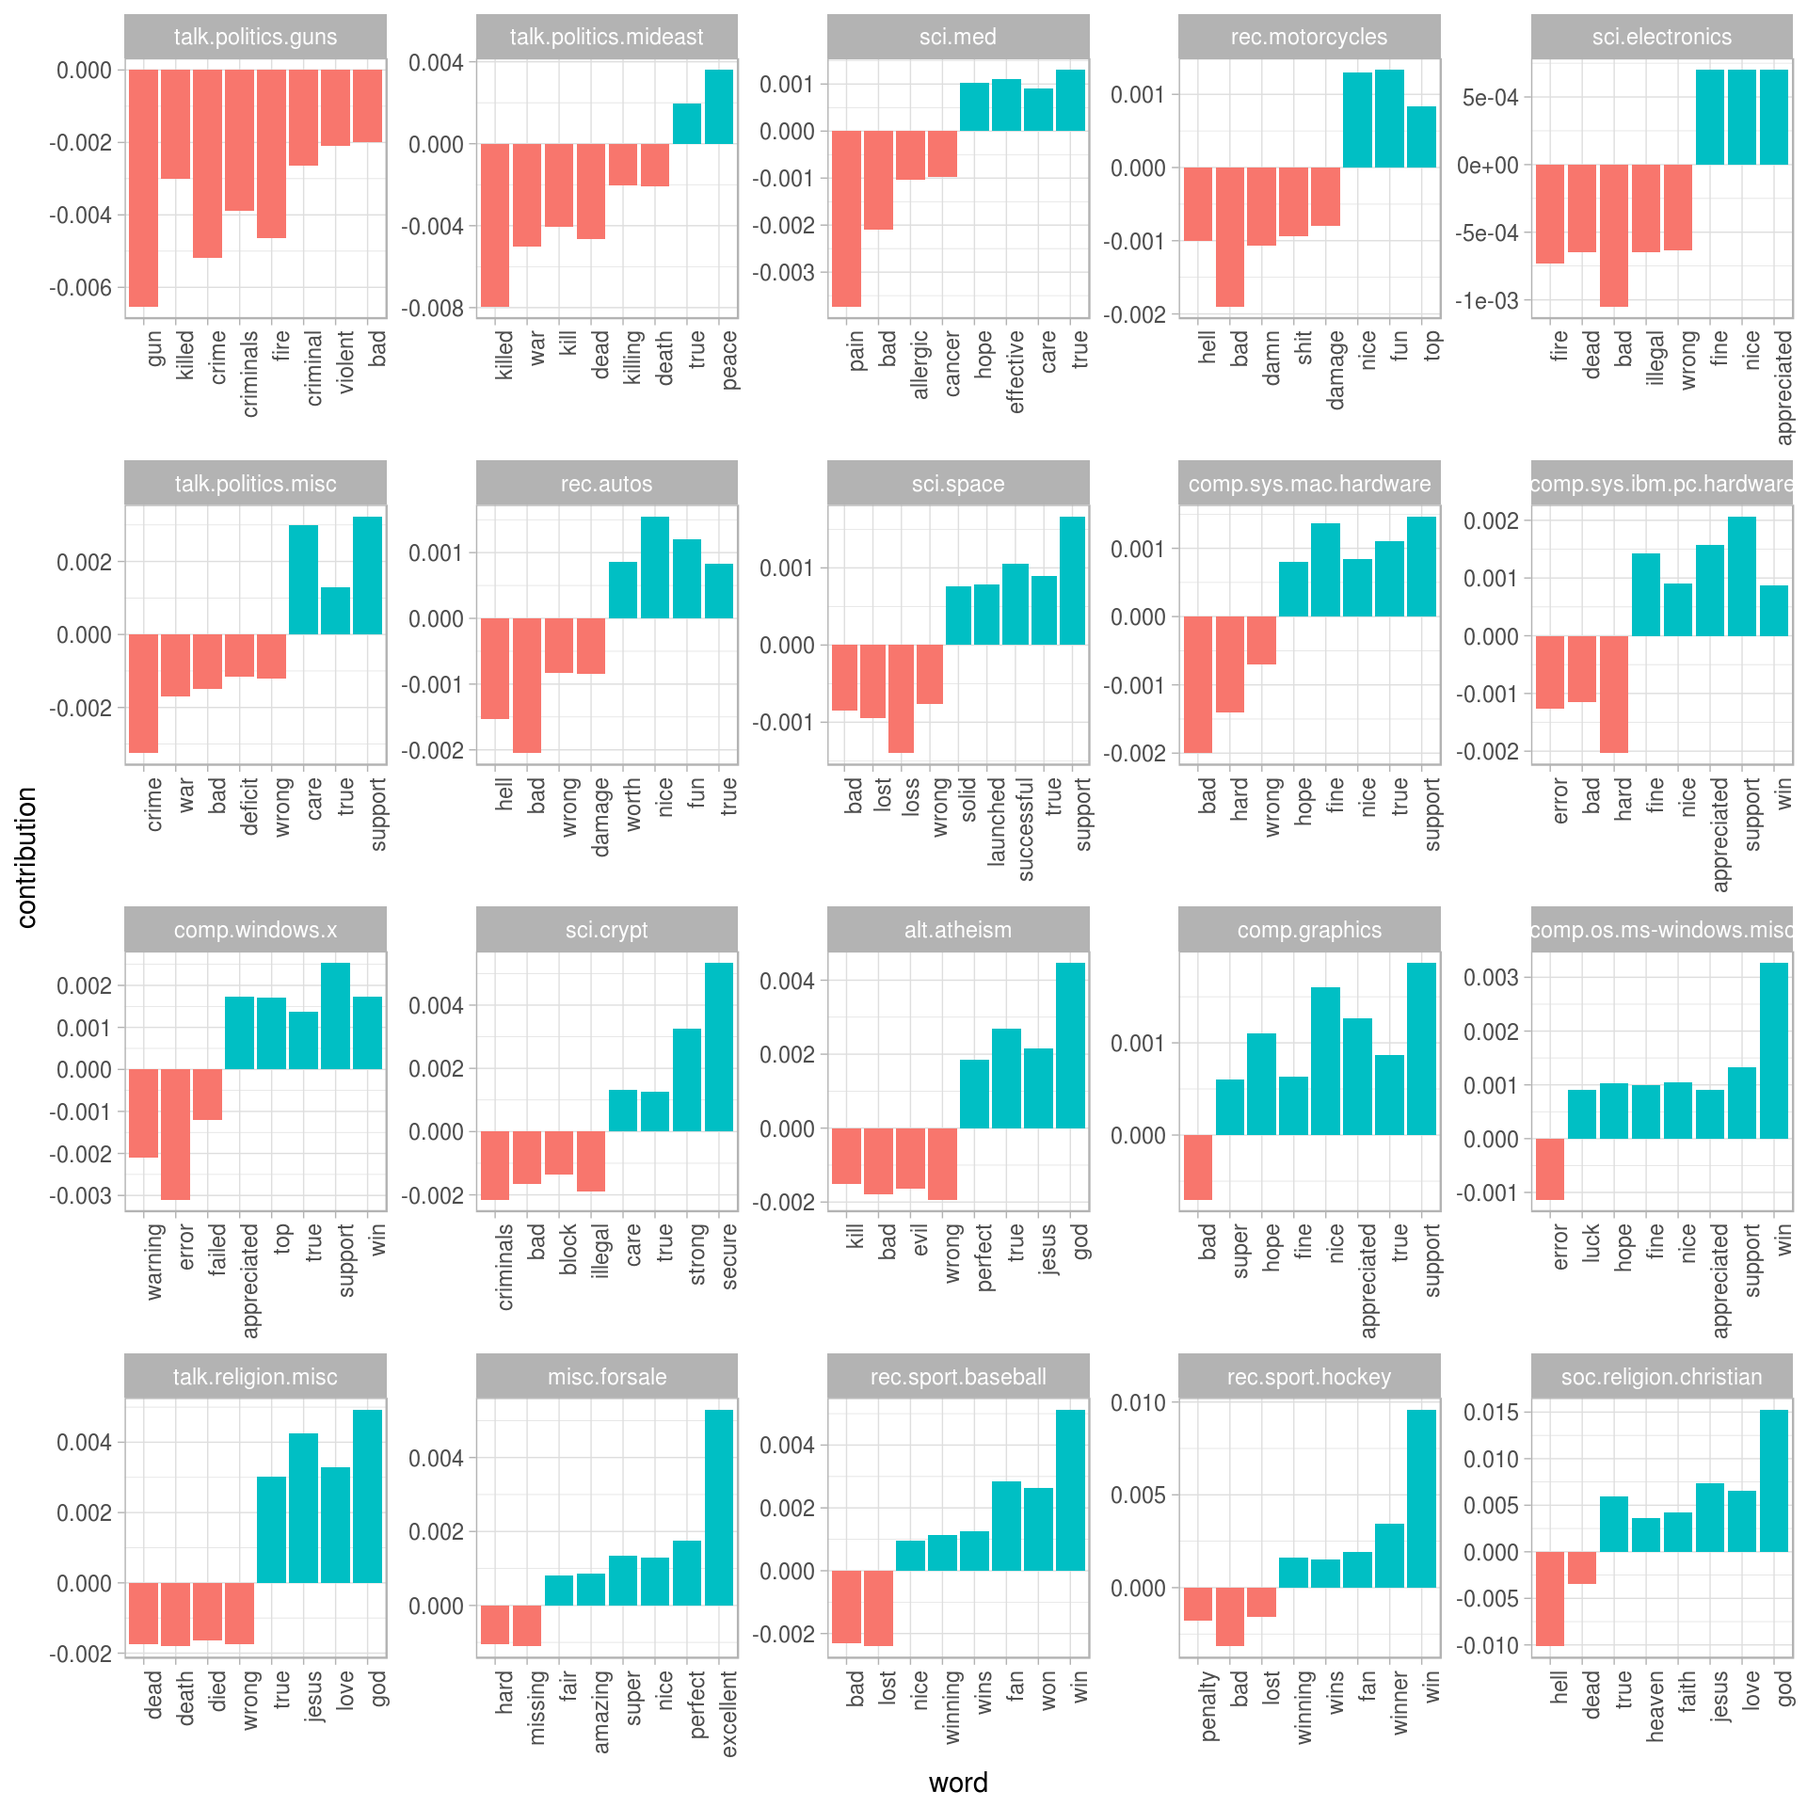
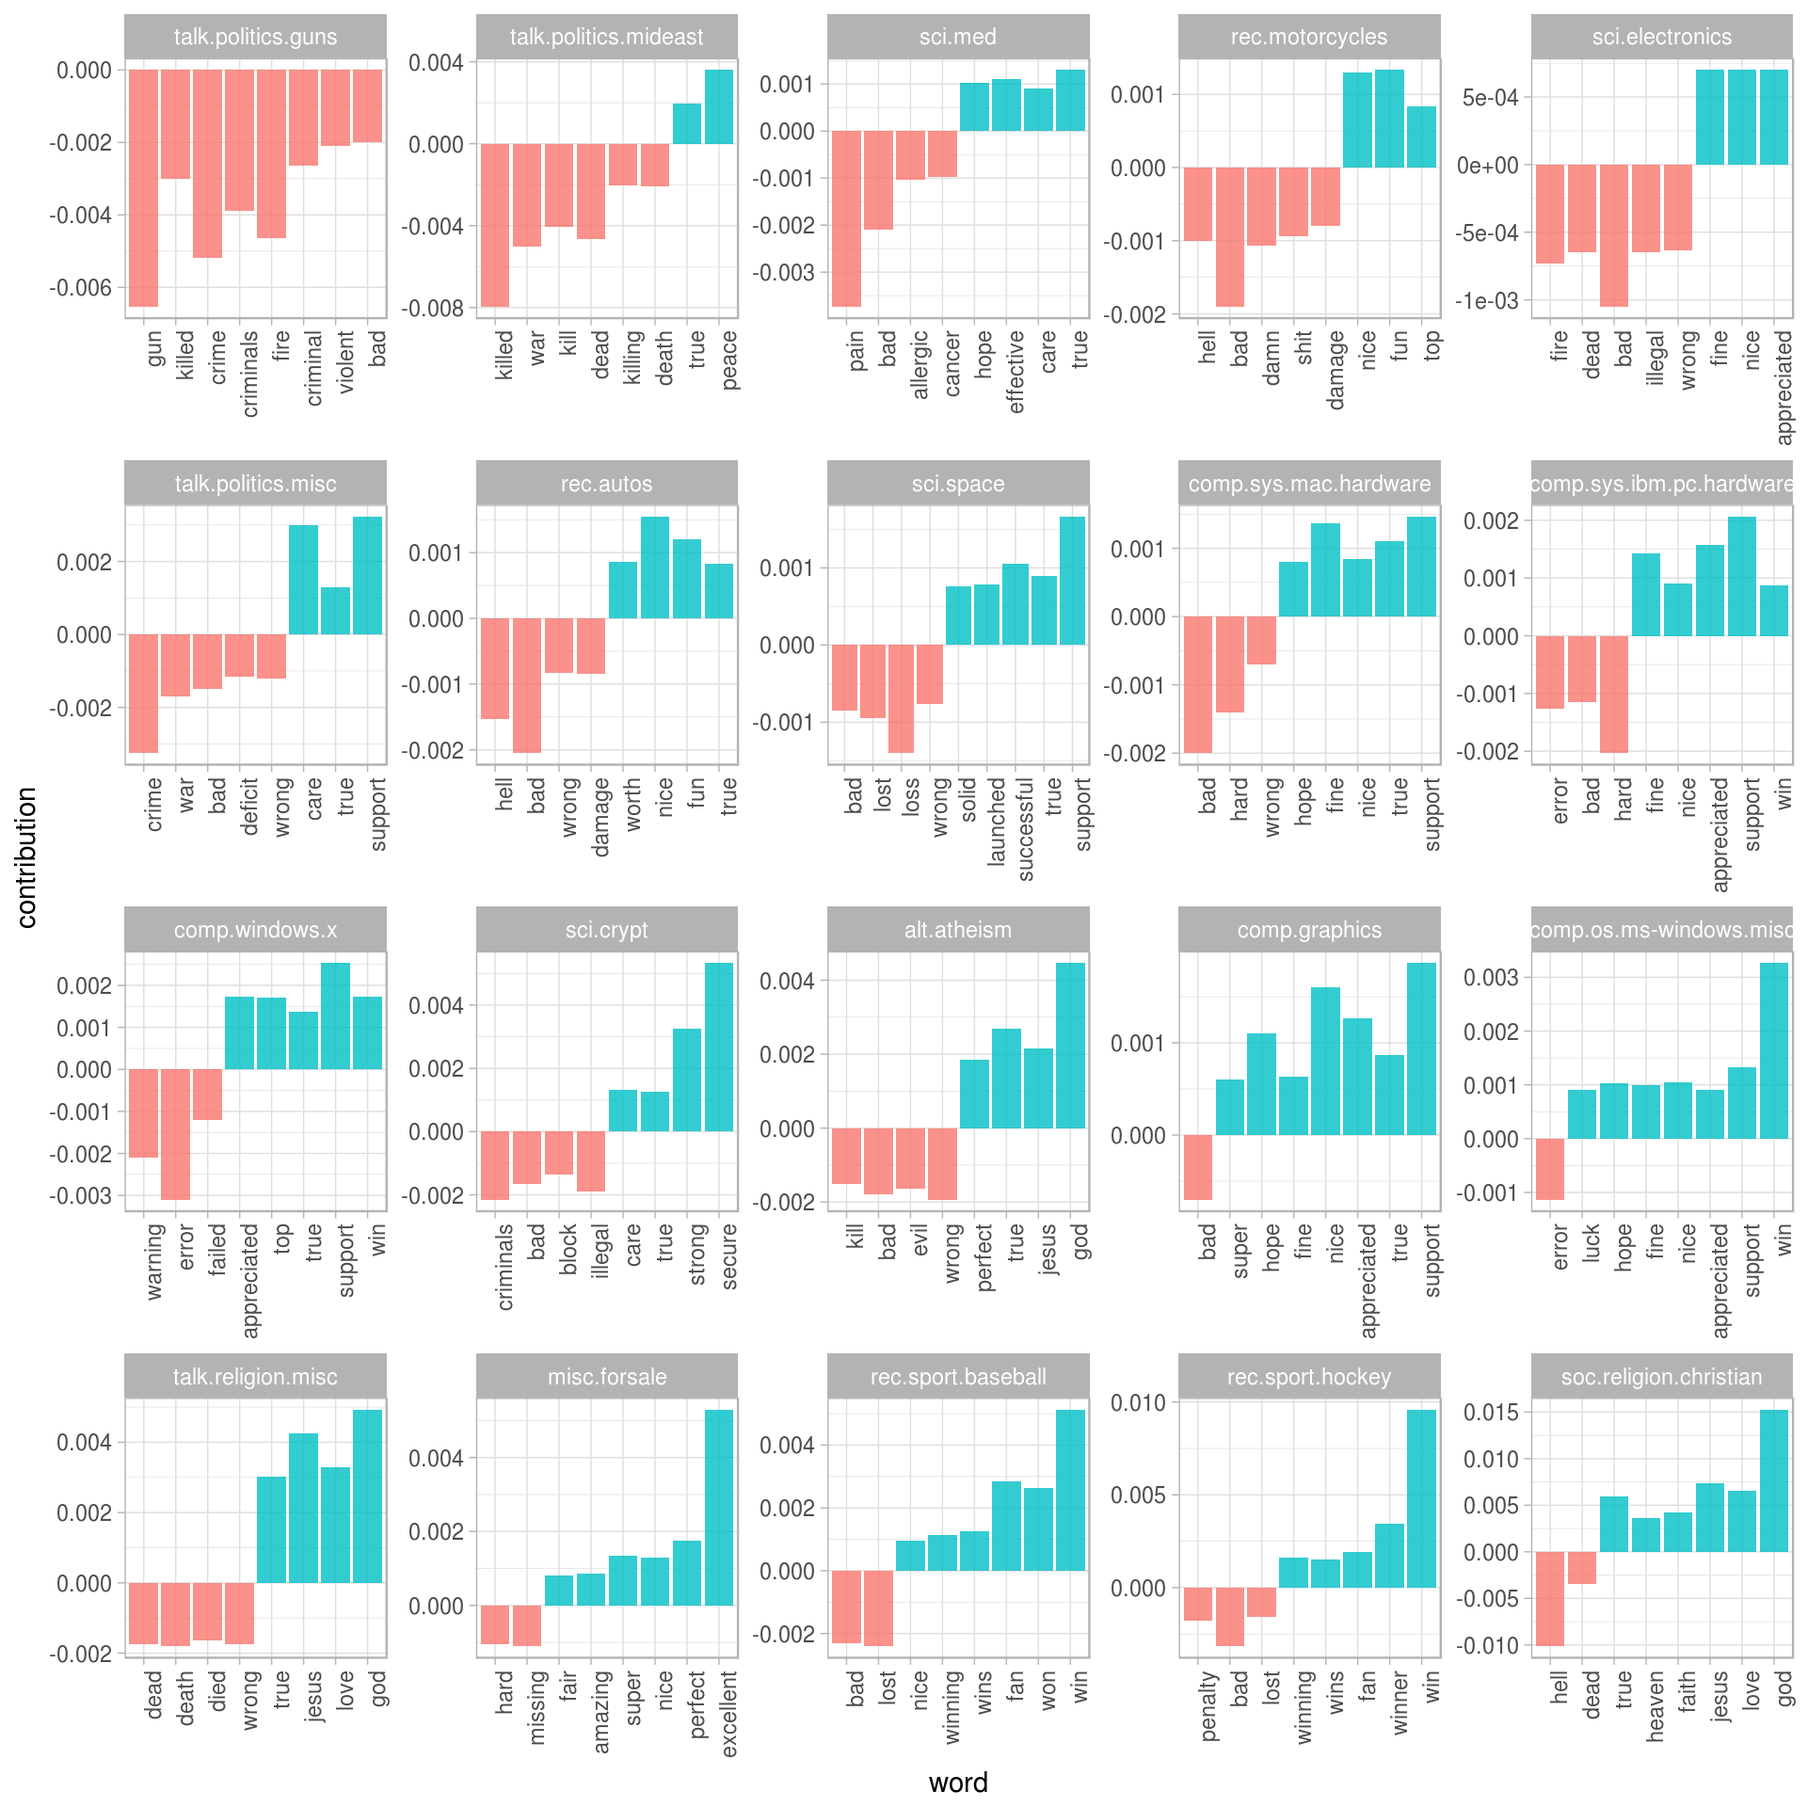
Updating book (109)

diff --git a/usenet.html b/usenet.html
@@ -400,7 +400,7 @@ top_sentiment_words %&gt;%
 <span class="st">  </span><span class="kw">mutate</span>(<span class="dt">board =</span> <span class="kw">reorder</span>(board, contribution),
          <span class="dt">word =</span> <span class="kw">reorder</span>(word, contribution)) %&gt;%
 <span class="st">  </span><span class="kw">ggplot</span>(<span class="kw">aes</span>(word, contribution, <span class="dt">fill =</span> contribution &gt;<span class="st"> </span><span class="dv">0</span>)) +
-<span class="st">  </span><span class="kw">geom_bar</span>(<span class="dt">alph =</span> <span class="fl">0.8</span>, <span class="dt">stat =</span> <span class="st">&quot;identity&quot;</span>, <span class="dt">show.legend =</span> <span class="ot">FALSE</span>) +
+<span class="st">  </span><span class="kw">geom_bar</span>(<span class="dt">alpha =</span> <span class="fl">0.8</span>, <span class="dt">stat =</span> <span class="st">&quot;identity&quot;</span>, <span class="dt">show.legend =</span> <span class="ot">FALSE</span>) +
 <span class="st">  </span><span class="kw">facet_wrap</span>(~<span class="st"> </span>board, <span class="dt">scales =</span> <span class="st">&quot;free&quot;</span>) +
 <span class="st">  </span><span class="kw">theme</span>(<span class="dt">axis.text.x =</span> <span class="kw">element_text</span>(<span class="dt">angle =</span> <span class="dv">90</span>, <span class="dt">hjust =</span> <span class="dv">1</span>))</code></pre></div>
 <p><img src="10-usenet_files/figure-html/top_sentiment_words-1.png" width="960" /></p>
@@ -508,15 +508,72 @@ top_sentiment_words %&gt;%
 </div>
 <div id="n-grams" class="section level2">
 <h2><span class="header-section-number">10.6</span> N-grams</h2>
-<p>We can also</p>
+<p>We can also examine the effect of words that are used in negation, like we did in [Chapter 5]{#ngrams}. Let’s start by finding all the bigrams in the Usenet posts.</p>
 <div class="sourceCode"><pre class="sourceCode r"><code class="sourceCode r">usenet_bigrams &lt;-<span class="st"> </span>cleaned_text %&gt;%
-<span class="st">  </span><span class="kw">unnest_tokens</span>(bigram, text, <span class="dt">token =</span> <span class="st">&quot;ngrams&quot;</span>, <span class="dt">n =</span> <span class="dv">2</span>)</code></pre></div>
+<span class="st">  </span><span class="kw">unnest_tokens</span>(bigram, text, <span class="dt">token =</span> <span class="st">&quot;ngrams&quot;</span>, <span class="dt">n =</span> <span class="dv">2</span>)
+
+usenet_bigrams</code></pre></div>
+<pre><code>## # A tibble: 1,762,089 × 3
+##          board    id            bigram
+##          &lt;chr&gt; &lt;chr&gt;             &lt;chr&gt;
+## 1  alt.atheism 49960      archive name
+## 2  alt.atheism 49960      name atheism
+## 3  alt.atheism 49960 atheism resources
+## 4  alt.atheism 49960     resources alt
+## 5  alt.atheism 49960       alt atheism
+## 6  alt.atheism 49960   atheism archive
+## 7  alt.atheism 49960      archive name
+## 8  alt.atheism 49960    name resources
+## 9  alt.atheism 49960    resources last
+## 10 alt.atheism 49960     last modified
+## # ... with 1,762,079 more rows</code></pre>
+<p>Now let’s count how many of these bigrams are used in each board.</p>
 <div class="sourceCode"><pre class="sourceCode r"><code class="sourceCode r">usenet_bigram_counts &lt;-<span class="st"> </span>usenet_bigrams %&gt;%
-<span class="st">  </span><span class="kw">count</span>(board, bigram)</code></pre></div>
+<span class="st">  </span><span class="kw">count</span>(board, bigram)
+
+usenet_bigram_counts %&gt;%<span class="st"> </span>
+<span class="st">  </span><span class="kw">arrange</span>(<span class="kw">desc</span>(n))</code></pre></div>
+<pre><code>## Source: local data frame [1,006,415 x 3]
+## Groups: board [20]
+## 
+##                     board bigram     n
+##                     &lt;chr&gt;  &lt;chr&gt; &lt;int&gt;
+## 1  soc.religion.christian of the  1141
+## 2   talk.politics.mideast of the  1135
+## 3   talk.politics.mideast in the   857
+## 4               sci.space of the   684
+## 5               sci.crypt of the   671
+## 6      talk.politics.misc of the   645
+## 7  soc.religion.christian in the   637
+## 8      talk.religion.misc of the   630
+## 9      talk.politics.guns of the   618
+## 10            alt.atheism of the   474
+## # ... with 1,006,405 more rows</code></pre>
+<p>Next, we can calculate tf-idf for the bigrams to find the ones that are important for each board.</p>
 <div class="sourceCode"><pre class="sourceCode r"><code class="sourceCode r">bigram_tf_idf &lt;-<span class="st"> </span>usenet_bigram_counts %&gt;%
-<span class="st">  </span><span class="kw">bind_tf_idf</span>(bigram, board, n)</code></pre></div>
+<span class="st">  </span><span class="kw">bind_tf_idf</span>(bigram, board, n)
+
+bigram_tf_idf %&gt;%
+<span class="st">  </span><span class="kw">arrange</span>(<span class="kw">desc</span>(tf_idf))</code></pre></div>
+<pre><code>## Source: local data frame [1,006,415 x 6]
+## Groups: board [20]
+## 
+##                       board            bigram     n          tf      idf      tf_idf
+##                       &lt;chr&gt;             &lt;chr&gt; &lt;int&gt;       &lt;dbl&gt;    &lt;dbl&gt;       &lt;dbl&gt;
+## 1        talk.politics.misc mr stephanopoulos   155 0.001477344 2.995732 0.004425728
+## 2            comp.windows.x               n x   177 0.001917577 2.302585 0.004415384
+## 3            comp.windows.x          x printf   130 0.001408390 2.995732 0.004219158
+## 4           rec.motorcycles          the bike   104 0.001675663 2.302585 0.003858356
+## 5  comp.sys.ibm.pc.hardware            scsi 2   107 0.001478983 2.302585 0.003405485
+## 6            comp.windows.x            file x   104 0.001126712 2.995732 0.003375327
+## 7     talk.politics.mideast     the armenians   169 0.001111988 2.995732 0.003331220
+## 8          rec.sport.hockey               1 0   256 0.002733816 1.203973 0.003291440
+## 9            comp.windows.x      output oname   100 0.001083377 2.995732 0.003245506
+## 10           comp.windows.x            x char    98 0.001061709 2.995732 0.003180596
+## # ... with 1,006,405 more rows</code></pre>
+<p>Now we come back to the words used in negation that we are interested in examining. Let’s define a vector of words that we suspect are used in negation, and use the same joining and counting approach from [Chapter 5]{#ngrams} to examine all of them at once.</p>
 <div class="sourceCode"><pre class="sourceCode r"><code class="sourceCode r">negate_words &lt;-<span class="st"> </span><span class="kw">c</span>(<span class="st">&quot;not&quot;</span>, <span class="st">&quot;without&quot;</span>, <span class="st">&quot;no&quot;</span>, <span class="st">&quot;isn&#39;t&quot;</span>, <span class="st">&quot;can&#39;t&quot;</span>, <span class="st">&quot;don&#39;t&quot;</span>,
-                  <span class="st">&quot;won&#39;t&quot;</span>, <span class="st">&quot;couldn&#39;t&quot;</span>)
+                  <span class="st">&quot;won&#39;t&quot;</span>, <span class="st">&quot;couldn&#39;t&quot;</span>, <span class="st">&quot;never&quot;</span>)
 
 usenet_bigram_counts %&gt;%
 <span class="st">  </span><span class="kw">ungroup</span>() %&gt;%
@@ -529,11 +586,13 @@ usenet_bigram_counts %&gt;%
 <span class="st">  </span><span class="kw">ungroup</span>() %&gt;%
 <span class="st">  </span><span class="kw">mutate</span>(<span class="dt">word2 =</span> <span class="kw">reorder</span>(word2, contribution)) %&gt;%
 <span class="st">  </span><span class="kw">ggplot</span>(<span class="kw">aes</span>(word2, contribution, <span class="dt">fill =</span> contribution &gt;<span class="st"> </span><span class="dv">0</span>)) +
-<span class="st">  </span><span class="kw">geom_bar</span>(<span class="dt">stat =</span> <span class="st">&quot;identity&quot;</span>, <span class="dt">show.legend =</span> <span class="ot">FALSE</span>) +
-<span class="st">  </span><span class="kw">facet_wrap</span>(~<span class="st"> </span>word1, <span class="dt">scales =</span> <span class="st">&quot;free&quot;</span>, <span class="dt">nrow =</span> <span class="dv">2</span>) +
+<span class="st">  </span><span class="kw">geom_bar</span>(<span class="dt">alpha =</span> <span class="fl">0.8</span>, <span class="dt">stat =</span> <span class="st">&quot;identity&quot;</span>, <span class="dt">show.legend =</span> <span class="ot">FALSE</span>) +
+<span class="st">  </span><span class="kw">facet_wrap</span>(~<span class="st"> </span>word1, <span class="dt">scales =</span> <span class="st">&quot;free&quot;</span>, <span class="dt">nrow =</span> <span class="dv">3</span>) +
+<span class="st">  </span><span class="kw">ylab</span>(<span class="st">&quot;Words preceded by negation&quot;</span>) +
+<span class="st">  </span><span class="kw">xlab</span>(<span class="st">&quot;Sentiment score * # of occurrences&quot;</span>) +
 <span class="st">  </span><span class="kw">theme</span>(<span class="dt">axis.text.x =</span> <span class="kw">element_text</span>(<span class="dt">angle =</span> <span class="dv">90</span>, <span class="dt">hjust =</span> <span class="dv">1</span>))</code></pre></div>
-<p><img src="10-usenet_files/figure-html/unnamed-chunk-14-1.png" width="672" /></p>
-<p>TODO: Something is wrong with that plot? Shouldn’t each panel have 10 words? Missing a <code>group_by</code>? Is it just because some of the words are in more than in panel?</p>
+<p><img src="10-usenet_files/figure-html/negate_words-1.png" width="960" /></p>
+<p>These words are the ones that contribute the most to the sentiment scores in the wrong direction, because they are being used with negation words before them. Phrases like “no problem” and “don’t want” are important sources of misidentification.</p>
 
 </div>
 </div>

diff --git a/10-usenet.md b/10-usenet.md
@@ -280,7 +280,7 @@ top_sentiment_words %>%
   mutate(board = reorder(board, contribution),
          word = reorder(word, contribution)) %>%
   ggplot(aes(word, contribution, fill = contribution > 0)) +
-  geom_bar(alph = 0.8, stat = "identity", show.legend = FALSE) +
+  geom_bar(alpha = 0.8, stat = "identity", show.legend = FALSE) +
   facet_wrap(~ board, scales = "free") +
   theme(axis.text.x = element_text(angle = 90, hjust = 1))
 ```
@@ -427,30 +427,99 @@ Well then.
 
 ## N-grams
 
-We can also 
+We can also examine the effect of words that are used in negation, like we did in [Chapter 5]{#ngrams}. Let's start by finding all the bigrams in the Usenet posts.
 
 
 ```r
 usenet_bigrams <- cleaned_text %>%
   unnest_tokens(bigram, text, token = "ngrams", n = 2)
+
+usenet_bigrams
 ```
+
+```
+## # A tibble: 1,762,089 × 3
+##          board    id            bigram
+##          <chr> <chr>             <chr>
+## 1  alt.atheism 49960      archive name
+## 2  alt.atheism 49960      name atheism
+## 3  alt.atheism 49960 atheism resources
+## 4  alt.atheism 49960     resources alt
+## 5  alt.atheism 49960       alt atheism
+## 6  alt.atheism 49960   atheism archive
+## 7  alt.atheism 49960      archive name
+## 8  alt.atheism 49960    name resources
+## 9  alt.atheism 49960    resources last
+## 10 alt.atheism 49960     last modified
+## # ... with 1,762,079 more rows
+```
+
+Now let's count how many of these bigrams are used in each board.
 
 
 ```r
 usenet_bigram_counts <- usenet_bigrams %>%
   count(board, bigram)
+
+usenet_bigram_counts %>% 
+  arrange(desc(n))
 ```
+
+```
+## Source: local data frame [1,006,415 x 3]
+## Groups: board [20]
+## 
+##                     board bigram     n
+##                     <chr>  <chr> <int>
+## 1  soc.religion.christian of the  1141
+## 2   talk.politics.mideast of the  1135
+## 3   talk.politics.mideast in the   857
+## 4               sci.space of the   684
+## 5               sci.crypt of the   671
+## 6      talk.politics.misc of the   645
+## 7  soc.religion.christian in the   637
+## 8      talk.religion.misc of the   630
+## 9      talk.politics.guns of the   618
+## 10            alt.atheism of the   474
+## # ... with 1,006,405 more rows
+```
+
+Next, we can calculate tf-idf for the bigrams to find the ones that are important for each board.
 
 
 ```r
 bigram_tf_idf <- usenet_bigram_counts %>%
   bind_tf_idf(bigram, board, n)
+
+bigram_tf_idf %>%
+  arrange(desc(tf_idf))
 ```
+
+```
+## Source: local data frame [1,006,415 x 6]
+## Groups: board [20]
+## 
+##                       board            bigram     n          tf      idf      tf_idf
+##                       <chr>             <chr> <int>       <dbl>    <dbl>       <dbl>
+## 1        talk.politics.misc mr stephanopoulos   155 0.001477344 2.995732 0.004425728
+## 2            comp.windows.x               n x   177 0.001917577 2.302585 0.004415384
+## 3            comp.windows.x          x printf   130 0.001408390 2.995732 0.004219158
+## 4           rec.motorcycles          the bike   104 0.001675663 2.302585 0.003858356
+## 5  comp.sys.ibm.pc.hardware            scsi 2   107 0.001478983 2.302585 0.003405485
+## 6            comp.windows.x            file x   104 0.001126712 2.995732 0.003375327
+## 7     talk.politics.mideast     the armenians   169 0.001111988 2.995732 0.003331220
+## 8          rec.sport.hockey               1 0   256 0.002733816 1.203973 0.003291440
+## 9            comp.windows.x      output oname   100 0.001083377 2.995732 0.003245506
+## 10           comp.windows.x            x char    98 0.001061709 2.995732 0.003180596
+## # ... with 1,006,405 more rows
+```
+
+Now we come back to the words used in negation that we are interested in examining. Let's define a vector of words that we suspect are used in negation, and use the same joining and counting approach from [Chapter 5]{#ngrams} to examine all of them at once.
 
 
 ```r
 negate_words <- c("not", "without", "no", "isn't", "can't", "don't",
-                  "won't", "couldn't")
+                  "won't", "couldn't", "never")
 
 usenet_bigram_counts %>%
   ungroup() %>%
@@ -463,15 +532,16 @@ usenet_bigram_counts %>%
   ungroup() %>%
   mutate(word2 = reorder(word2, contribution)) %>%
   ggplot(aes(word2, contribution, fill = contribution > 0)) +
-  geom_bar(stat = "identity", show.legend = FALSE) +
-  facet_wrap(~ word1, scales = "free", nrow = 2) +
+  geom_bar(alpha = 0.8, stat = "identity", show.legend = FALSE) +
+  facet_wrap(~ word1, scales = "free", nrow = 3) +
+  ylab("Words preceded by negation") +
+  xlab("Sentiment score * # of occurrences") +
   theme(axis.text.x = element_text(angle = 90, hjust = 1))
 ```
 
-<img src="10-usenet_files/figure-html/unnamed-chunk-14-1.png" width="672" />
+<img src="10-usenet_files/figure-html/negate_words-1.png" width="960" />
 
-TODO: Something is wrong with that plot? Shouldn't each panel have 10 words? Missing a `group_by`? Is it just because some of the words are in more than in panel?
-
+These words are the ones that contribute the most to the sentiment scores in the wrong direction, because they are being used with negation words before them. Phrases like "no problem" and "don't want" are important sources of misidentification.
 
 
 
